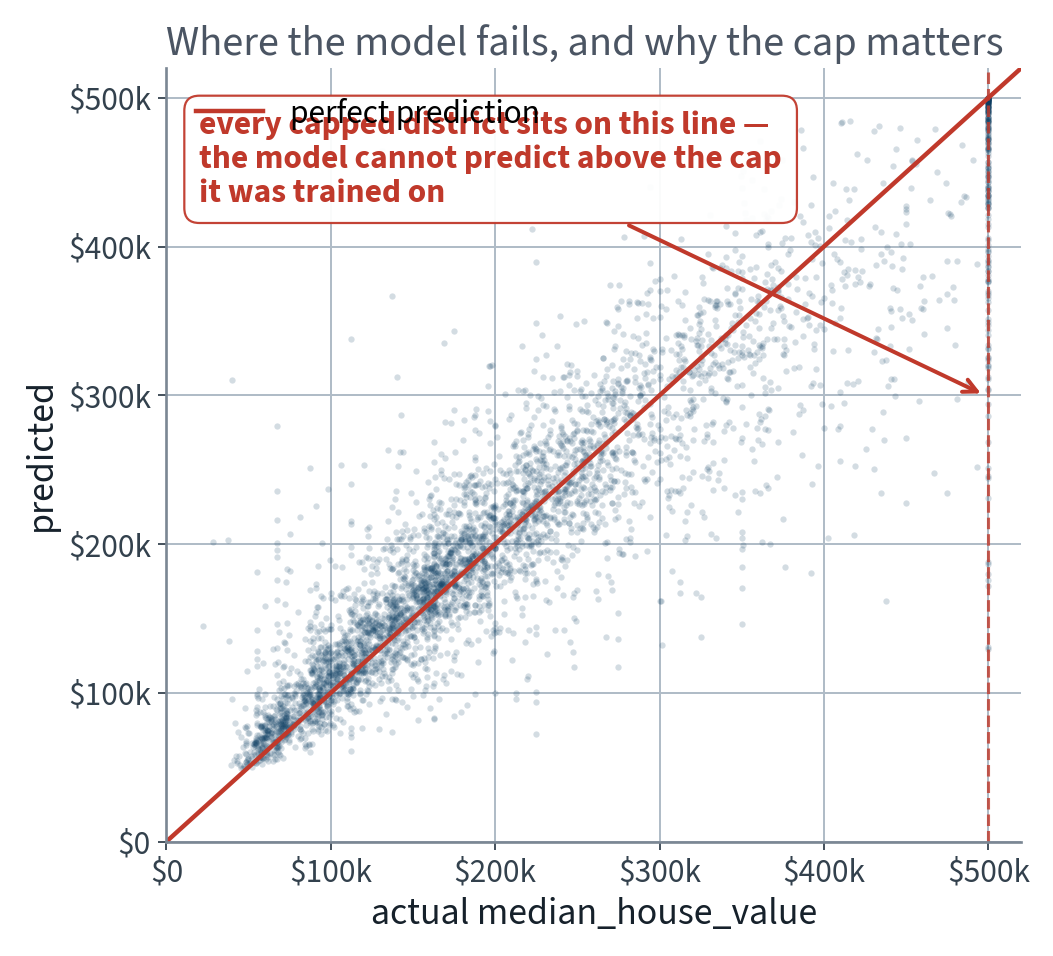
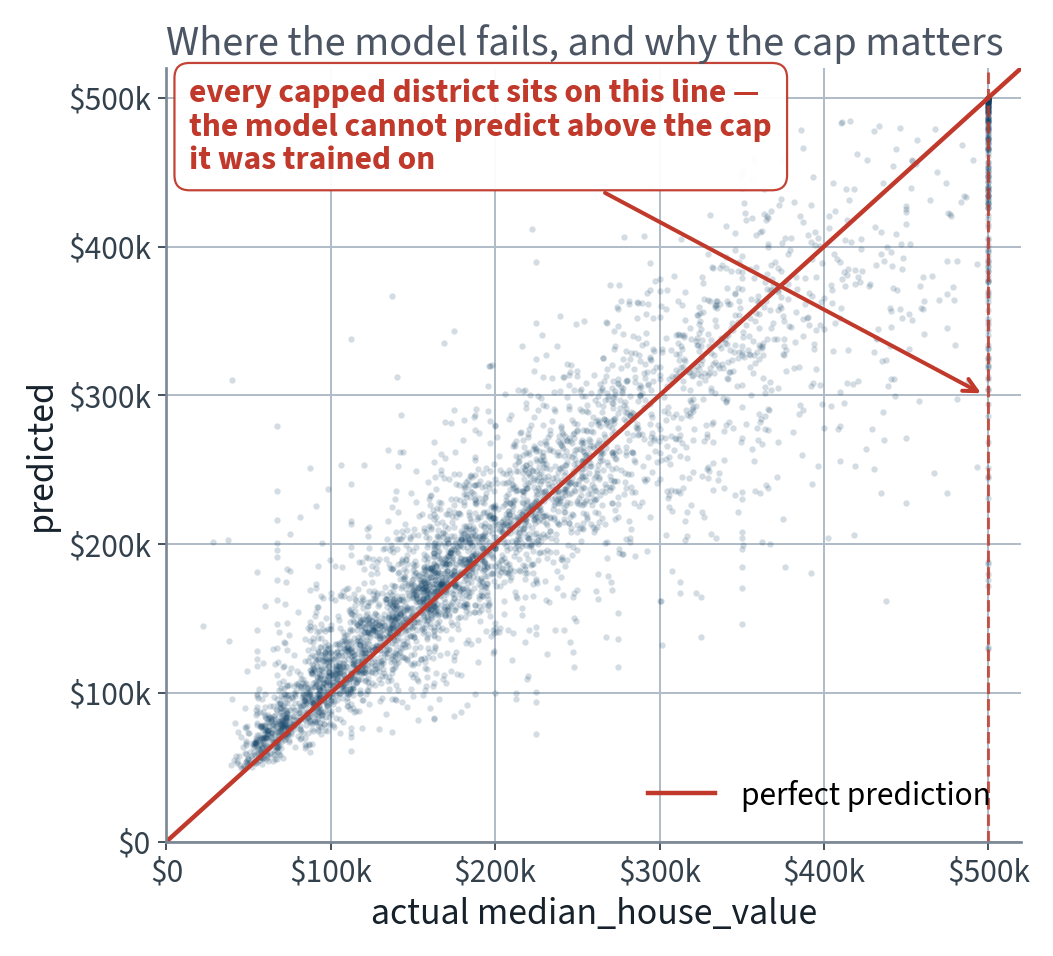
Residuals: move the legend clear of the callout it was under
At the new type scale the "perfect prediction" legend and the cap callout both
wanted the upper left, and the callout was drawn over the legend text. Legend to
the lower right, where the plot is empty by construction — nothing is predicted
low when the actual value is high.

figures.json moves in the eleventh significant figure of the log-target median
APE, which is thread summation order inside the forest with n_jobs=-1. Nothing
quoted on a slide is affected.

diff --git a/tools/make_figures.py b/tools/make_figures.py
@@ -980,12 +980,14 @@ def fig_residuals(gs, sp):
     ax.axvline(500_001, color=ACCENT, ls="--", lw=1.4, alpha=0.8)
     ax.annotate("every capped district sits on this line —\n"
                 "the model cannot predict above the cap\nit was trained on",
-                xy=(498_000, 300_000), xytext=(20_000, 430_000), fontsize=SMALL,
+                xy=(498_000, 300_000), xytext=(14_000, 452_000), fontsize=SMALL,
                 color=ACCENT, fontweight="bold",
                 bbox=dict(boxstyle="round,pad=0.45", facecolor="white",
                           edgecolor=ACCENT, alpha=0.95),
                 arrowprops=dict(arrowstyle="->", color=ACCENT, lw=1.8))
-    ax.legend(loc="upper left")
+    # lower right: the upper left is where the callout goes, and at 15px the
+    # two collided
+    ax.legend(loc="lower right")
     fig.tight_layout()
     return save(fig, "l2-residuals", raster=True)
 
